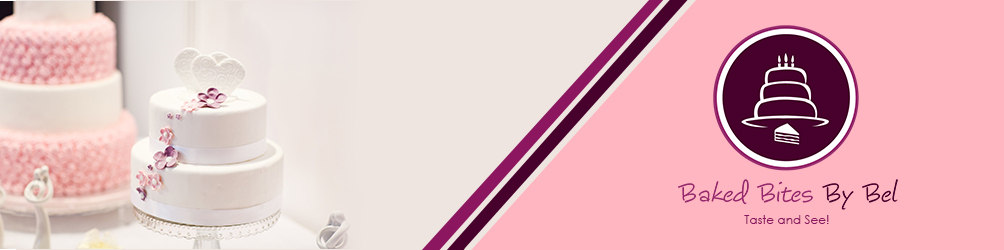
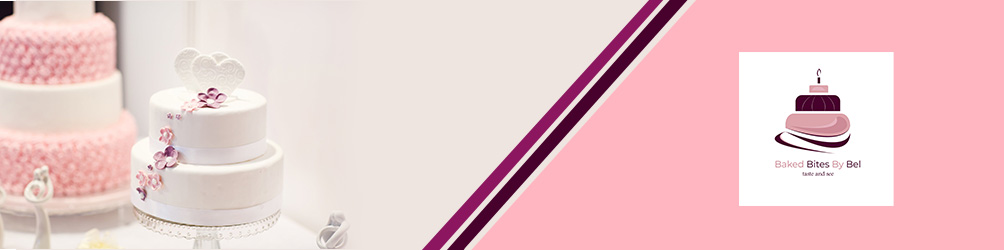
new

Changed region(s): [[0.6793, 0.084, 0.8954, 0.84], [0.741, 0.868, 0.8337, 0.896]]

diff --git a/style.css b/style.css
@@ -10,6 +10,12 @@ body{
 
 div.a {
     text-align: center;
+    font-family:Arial, Helvetica, sans-serif;
+  }
+
+
+  div.d {
+    text-align: justify-left;
   }
 
 
@@ -29,7 +35,6 @@ div.a {
 display: flex;
 justify-content: center;
 align-items: center;
-column-gap: 60px;
 }
 
 
@@ -65,7 +70,6 @@ h1 {
   .flex-container > div {
   background-color:rgb(255, 255, 255);
   margin: auto;
-  padding: 20px;
   }
 
     #Image1 {
@@ -112,3 +116,11 @@ h1 {
         background-color: #f2f2f2;
         padding: 20px;
       }
+
+
+      .imgMain {
+
+        display:block;
+        margin-left: 0;
+        margin-right: 0;
+    }
